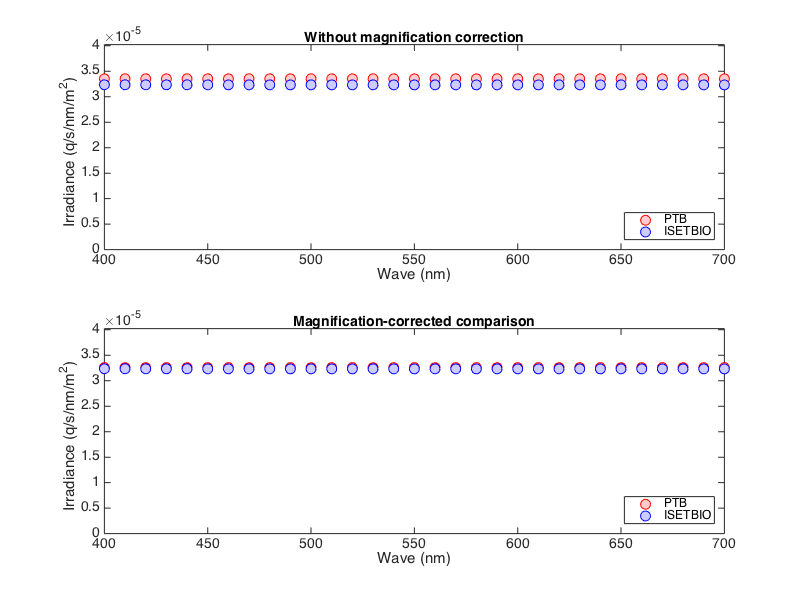
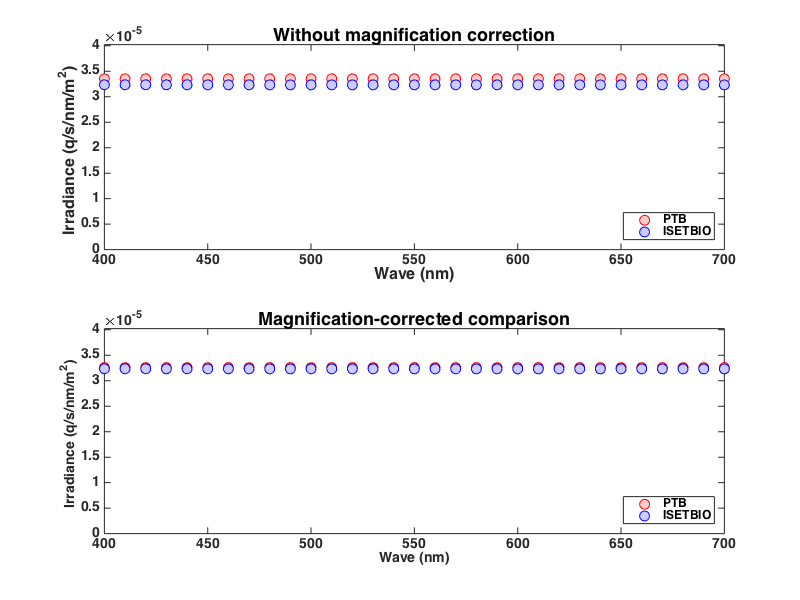
Validation results docs update

diff --git a/validationdocs/PTB_vs_ISETBIO/PTB_vs_ISETBIO_Irradiance_HTML/PTB_vs_ISETBIO_Irradiance.html b/validationdocs/PTB_vs_ISETBIO/PTB_vs_ISETBIO_Irradiance_HTML/PTB_vs_ISETBIO_Irradiance.html
@@ -145,10 +145,10 @@ table td { padding:7px 5px; text-align:left; vertical-align:top; border:1px soli
         plot(wave, irradianceEnergy, <span class="string">'bo'</span>, <span class="string">'MarkerFaceColor'</span>, [0.8 0.8 1.0], <span class="string">'MarkerSize'</span>, 10);
         hold <span class="string">off</span>
         set(gca,<span class="string">'ylim'</span>,[0 1.2*max([max(ptbIrradiance(:)) max(irradianceEnergy(:))])]);
-        set(gca, <span class="string">'FontName'</span>, <span class="string">'Helvetica'</span>, <span class="string">'FontSize'</span>, 14);
+        set(gca, <span class="string">'FontName'</span>, <span class="string">'Helvetica'</span>, <span class="string">'FontSize'</span>, 14,  <span class="string">'FontWeight'</span>, <span class="string">'bold'</span>);
         legend({<span class="string">'PTB'</span>,<span class="string">'ISETBIO'</span>}, <span class="string">'Location'</span>,<span class="string">'SouthEast'</span>,<span class="string">'FontSize'</span>,12);
-        xlabel(<span class="string">'Wave (nm)'</span>); ylabel(<span class="string">'Irradiance (q/s/nm/m^2)'</span>)
-        title(<span class="string">'Without magnification correction'</span>, <span class="string">'FontName'</span>, <span class="string">'Helvetica'</span>, <span class="string">'FontSize'</span>, 14, <span class="string">'FontWeight'</span>, <span class="string">'bold'</span>);
+        xlabel(<span class="string">'Wave (nm)'</span>, <span class="string">'FontName'</span>, <span class="string">'Helvetica'</span>, <span class="string">'FontSize'</span>, 16); ylabel(<span class="string">'Irradiance (q/s/nm/m^2)'</span>, <span class="string">'FontName'</span>, <span class="string">'Helvetica'</span>, <span class="string">'FontSize'</span>, 16)
+        title(<span class="string">'Without magnification correction'</span>, <span class="string">'FontName'</span>, <span class="string">'Helvetica'</span>, <span class="string">'FontSize'</span>, 18, <span class="string">'FontWeight'</span>, <span class="string">'bold'</span>);
 
 
         subplot(2,1,2);
@@ -157,10 +157,10 @@ table td { padding:7px 5px; text-align:left; vertical-align:top; border:1px soli
         plot(wave,irradianceEnergy,<span class="string">'bo'</span>, <span class="string">'MarkerFaceColor'</span>, [0.8 0.8 1.0], <span class="string">'MarkerSize'</span>, 10);
         hold <span class="string">off</span>
         set(gca,<span class="string">'ylim'</span>,[0 1.2*max([max(ptbIrradiance(:)) max(irradianceEnergy(:))])]);
-        set(gca, <span class="string">'FontName'</span>, <span class="string">'Helvetica'</span>, <span class="string">'FontSize'</span>, 14);
-        xlabel(<span class="string">'Wave (nm)'</span>); ylabel(<span class="string">'Irradiance (q/s/nm/m^2)'</span>)
+        set(gca, <span class="string">'FontName'</span>, <span class="string">'Helvetica'</span>, <span class="string">'FontSize'</span>, 14, <span class="string">'FontWeight'</span>, <span class="string">'bold'</span>);
+        xlabel(<span class="string">'Wave (nm)'</span>, <span class="string">'FontName'</span>, <span class="string">'Helvetica'</span>, <span class="string">'FontSize'</span>, 14); ylabel(<span class="string">'Irradiance (q/s/nm/m^2)'</span>, <span class="string">'FontName'</span>, <span class="string">'Helvetica'</span>, <span class="string">'FontSize'</span>, 14)
         legend({<span class="string">'PTB'</span>,<span class="string">'ISETBIO'</span>}, <span class="string">'Location'</span>,<span class="string">'SouthEast'</span>,<span class="string">'FontSize'</span>,12)
-        title(<span class="string">'Magnification-corrected comparison'</span>, <span class="string">'FontName'</span>, <span class="string">'Helvetica'</span>, <span class="string">'FontSize'</span>, 14, <span class="string">'FontWeight'</span>, <span class="string">'bold'</span>);
+        title(<span class="string">'Magnification-corrected comparison'</span>, <span class="string">'FontName'</span>, <span class="string">'Helvetica'</span>, <span class="string">'FontSize'</span>, 18, <span class="string">'FontWeight'</span>, <span class="string">'bold'</span>);
 
     <span class="keyword">end</span>
 </pre><img vspace="5" hspace="5" src="PTB_vs_ISETBIO_Irradiance_01.png" alt=""> <h2>Assemble the validation data to be saved into a struct.<a name="15"></a></h2><pre class="codeinput">    validationDataToSave.fov        = fov;
@@ -197,7 +197,7 @@ table td { padding:7px 5px; text-align:left; vertical-align:top; border:1px soli
 	 validation report      : Validation PASSED. PTB and isetbio agree about irradiance to 1.00000 %
 	 validation data saved  : 'fov', 'roiSize', 'tolerance', 'scene', 'oi'
 	-------------------------------------------------------------------------------------------------
-	 date last run          : 18-Sep-2014 17:47:25
+	 date last run          : 18-Sep-2014 17:50:13
 	 matlabVersion          : 8.3.0.532 (R2014a)
 	 computer architecture  : MACI64
 	 git branch...tracking  : dev...origin/dev of ISETBIO
@@ -327,10 +327,10 @@ function validationResults = PTB_vs_ISETBIO_Irradiance(runParams)
         plot(wave, irradianceEnergy, 'bo', 'MarkerFaceColor', [0.8 0.8 1.0], 'MarkerSize', 10);
         hold off
         set(gca,'ylim',[0 1.2*max([max(ptbIrradiance(:)) max(irradianceEnergy(:))])]);
-        set(gca, 'FontName', 'Helvetica', 'FontSize', 14);
+        set(gca, 'FontName', 'Helvetica', 'FontSize', 14,  'FontWeight', 'bold');
         legend({'PTB','ISETBIO'}, 'Location','SouthEast','FontSize',12);
-        xlabel('Wave (nm)'); ylabel('Irradiance (q/s/nm/m^2)')
-        title('Without magnification correction', 'FontName', 'Helvetica', 'FontSize', 14, 'FontWeight', 'bold');
+        xlabel('Wave (nm)', 'FontName', 'Helvetica', 'FontSize', 16); ylabel('Irradiance (q/s/nm/m^2)', 'FontName', 'Helvetica', 'FontSize', 16)
+        title('Without magnification correction', 'FontName', 'Helvetica', 'FontSize', 18, 'FontWeight', 'bold');
     
         
         subplot(2,1,2);
@@ -339,10 +339,10 @@ function validationResults = PTB_vs_ISETBIO_Irradiance(runParams)
         plot(wave,irradianceEnergy,'bo', 'MarkerFaceColor', [0.8 0.8 1.0], 'MarkerSize', 10);
         hold off
         set(gca,'ylim',[0 1.2*max([max(ptbIrradiance(:)) max(irradianceEnergy(:))])]);
-        set(gca, 'FontName', 'Helvetica', 'FontSize', 14);
-        xlabel('Wave (nm)'); ylabel('Irradiance (q/s/nm/m^2)')
+        set(gca, 'FontName', 'Helvetica', 'FontSize', 14, 'FontWeight', 'bold');
+        xlabel('Wave (nm)', 'FontName', 'Helvetica', 'FontSize', 14); ylabel('Irradiance (q/s/nm/m^2)', 'FontName', 'Helvetica', 'FontSize', 14)
         legend({'PTB','ISETBIO'}, 'Location','SouthEast','FontSize',12)
-        title('Magnification-corrected comparison', 'FontName', 'Helvetica', 'FontSize', 14, 'FontWeight', 'bold');
+        title('Magnification-corrected comparison', 'FontName', 'Helvetica', 'FontSize', 18, 'FontWeight', 'bold');
         
     end 
     
